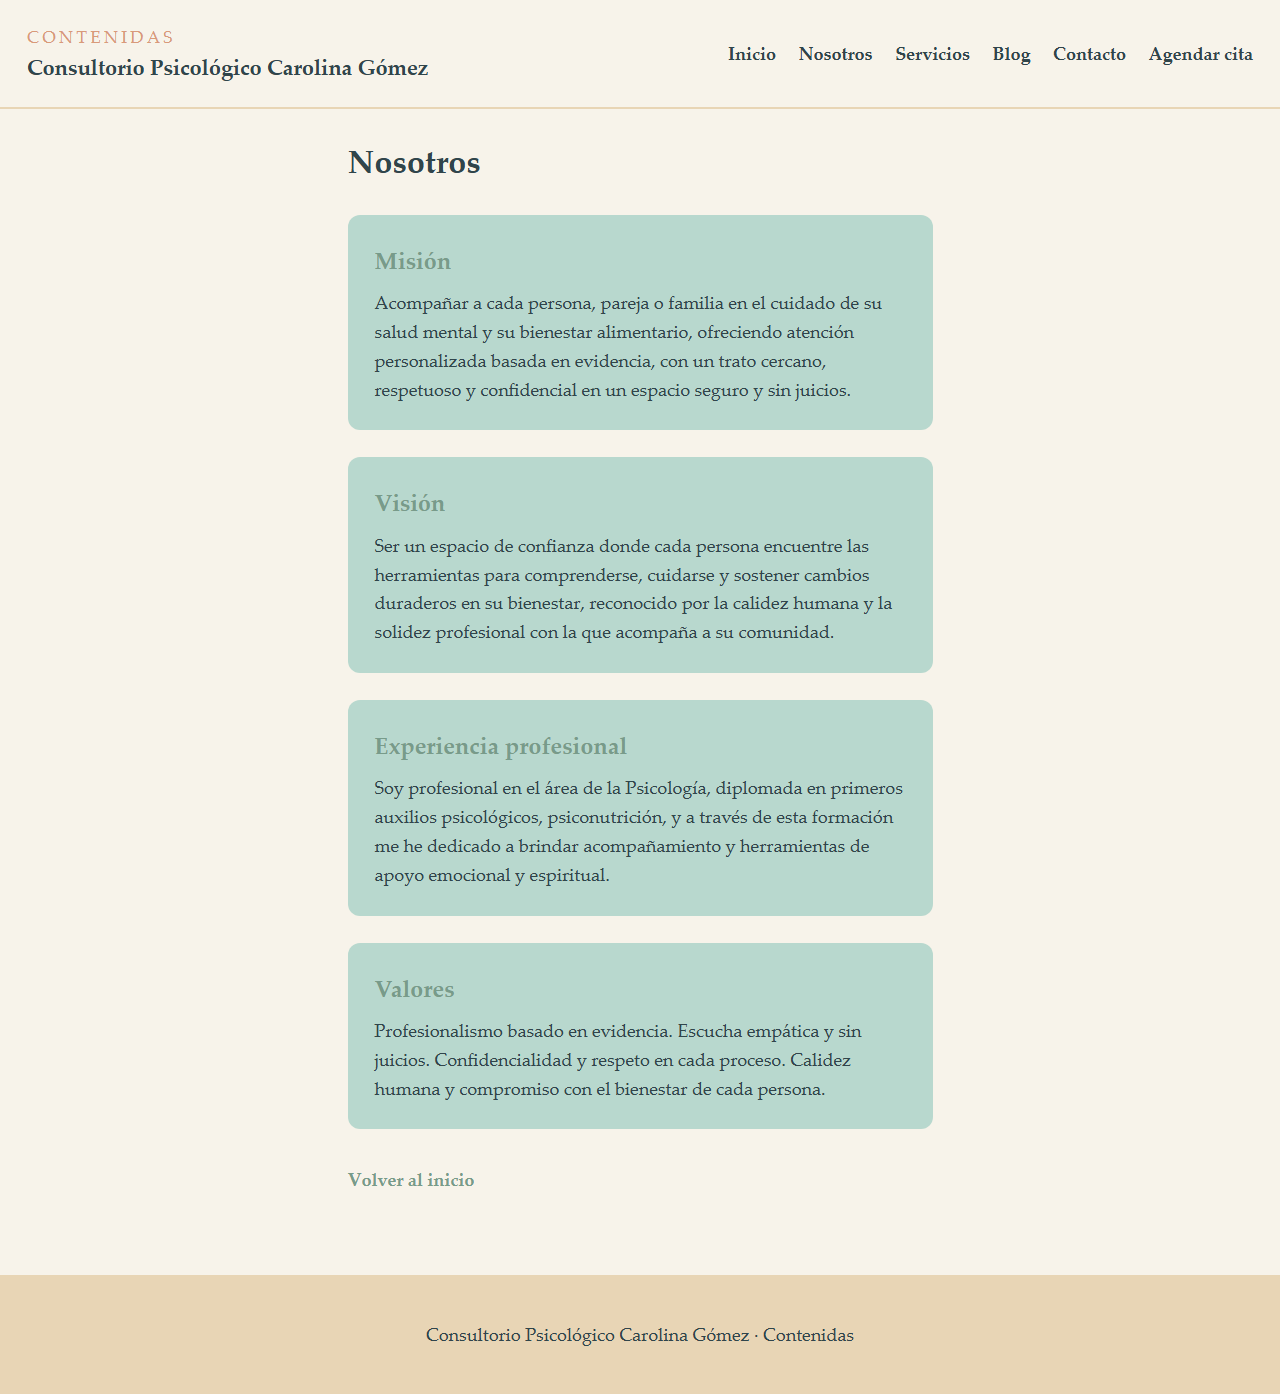
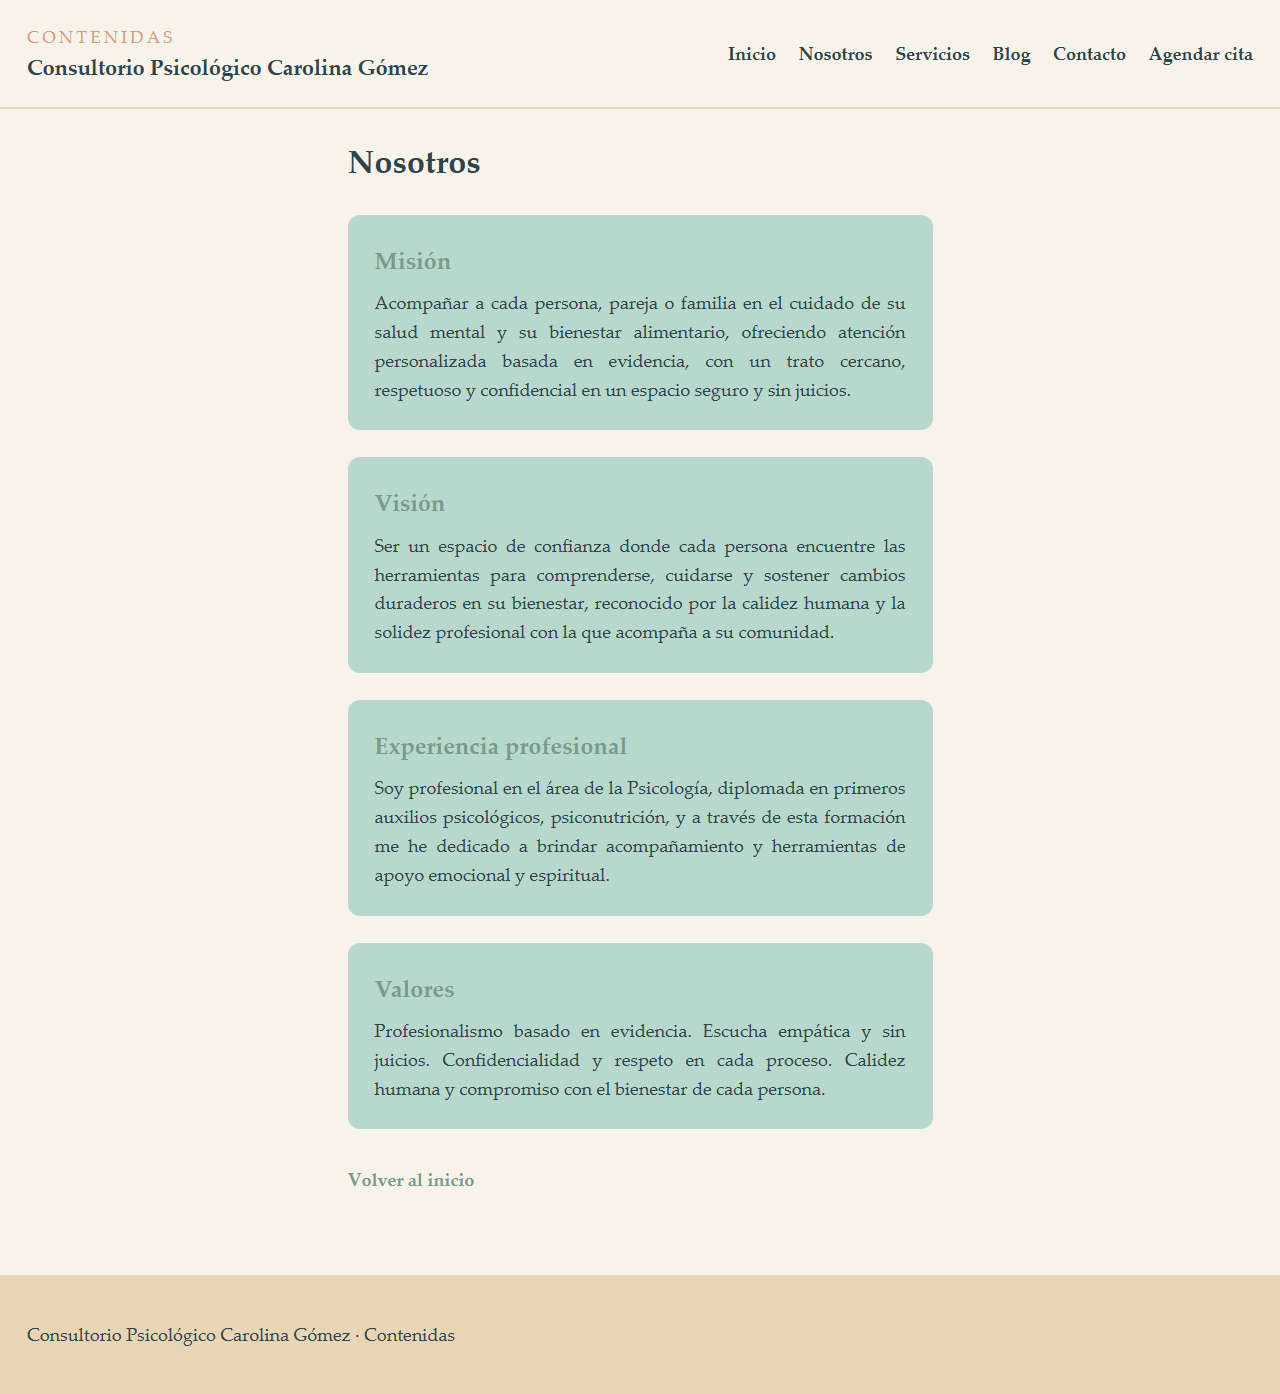
docs(evidence): regenerate HU-001/HU-002 captures after justified typography
Full-page captures rebuilt with exact scroll heights (1280x1268, 375x2215,
1280x1394, 375x1903) from a clean CDP profile. QA reports updated with DOM
and pixel-probe verification of justify + hyphens: none at both viewports.
DevTools captures kept after pixel check (identical line breaks). Suite 45
PASS, contract checks 28 PASS. Closes evidence refresh for HU-001/HU-002.

diff --git a/docs/evidencias/hu-001/qa-hu-001.md b/docs/evidencias/hu-001/qa-hu-001.md
@@ -3,36 +3,50 @@
 **HU:** HU-001
 **Rama:** `feature/hu-001`
 **Commits:** `2ebaa46` (docs), `85a0e9d` (feat), `3203047` (docs), `aa5379c` (evidencia),
-`4c1266a` (tipografía), `6b7dc3f` (evidencia regenerada), `434ef1e` (evidencia DevTools)
-**Fecha:** 2026-10-07 (actualizada tras el cambio tipográfico)
+`4c1266a` (tipografía), `6b7dc3f` (evidencia regenerada), `434ef1e` (evidencia DevTools),
+`8103b91` (justificación generalizada sin guiones)
+**Fecha:** 2026-10-07 (actualizada tras la justificación generalizada del sitio)
 
 ## Resumen
 
 | Verificación | Comando | Resultado |
 |---|---|---|
-| Suite automatizada | `python -m pytest -q` | **29 PASS / 0 FAIL** |
-| Contrato HTTP y semántica | script de verificación sobre `test_client()` | **27 PASS / 0 FAIL** |
+| Suite automatizada | `python -m pytest -q` | **45 PASS / 0 FAIL** (29 de HU-001 + 16 de HU-002) |
+| Contrato HTTP y semántica | script de verificación sobre `test_client()` | **28 PASS / 0 FAIL** |
 | Servidor de desarrollo | `GET http://127.0.0.1:5000/` | **200** |
 | Evidencia visual | `docs/evidencias/hu-001/*.png` | **4 archivos, PASS** |
 
 ## Cambio tipográfico verificado en esta iteración
 
-La portada adopta **Palatino** (`static/css/main.css`, `body { font-family: ... }`), el
-párrafo del hero queda **justificado** de forma acotada (solo `.hero__intro`) y la base
-tipográfica sube de **16 px a 18 px** con `html { font-size: 112.5% }`, según la
-decisión documentada en `docs/design-typography.md` y reflejada en la D10 de
-`specs/001_visualizar-pinicio/plan.md`.
+La portada adopta **Palatino** (`static/css/main.css`, `body { font-family: ... }`) y la
+base tipográfica sube de **16 px a 18 px** con `html { font-size: 112.5% }` (decisión
+documentada en `docs/design-typography.md`, D10 de `specs/001_visualizar-pinicio/plan.md`).
 
-Comprobaciones objetivas sobre `escritorio-1280.png` y `movil-375.png`:
+Desde `8103b91` la justificación se **generalizó a todo el sitio** con
+`text-align: justify` + `hyphens: none` (sin guiones ni cortes de palabras) en
+`.hero__intro`, `.service-card__summary`, `.values__line` y `.site-footer`
+(ambas reglas permanentes recogidas en `AGENTS.md`).
 
-- Justificación: los bordes derechos de las líneas completas del párrafo del hero son
-  619 / 613 / 618 / 619 / 613 px y la última línea corta termina en 168 px.
-- Cuerpo ampliado: el volumen de texto crece de forma medible respecto a la captura
-  anterior (p. ej. RF-6 en móvil pasa de 1344 a 1671 px de texto y el pie de 575 a
-  722), coherente con la escala 1.125×.
-- Título del hero equilibrado con `text-wrap: balance`: en escritorio la línea 1 mide
-  464 px y la línea 2 318 px, en lugar de una primera línea larga y «Gómez» solo.
-- `python -m pytest -q` → 29 PASS después del cambio.
+Verificación por CDP DOM (`Runtime.evaluate` + `Emulation.setDeviceMetricsOverride`,
+viewport exacto) sobre `/`:
+
+| Elemento | 1280 px | 375 px |
+|---|---|---|
+| `.hero__intro` | justify + `hyphens: none`, líneas 540·540·540·101 | justify + none, 7 líneas de 285 + 210 |
+| `.service-card__summary` | justify + none, 551·341 | justify + none, 288·288·288·81 |
+| `.values__line` | justify + none, 1120 (línea única) | justify + none, 285·285·285·285·230 |
+| `.site-footer p` | justify, 428 (línea única) | justify, 321·161 |
+| `scrollWidth` | 1280 (sin desbordamiento) | 375 (sin desbordamiento) |
+
+Verificación por muestreo de píxeles sobre `escritorio-1280.png` (bordes de línea):
+
+- Título del hero equilibrado con `text-wrap: balance`: la línea 1 mide 464 px
+  (x 83..547) y la línea 2 318 px (x 83..401).
+- Intro del hero: líneas completas terminan en x=620 / 619 / 620 y la última corta en
+  180 (justificación sin guiones visibles).
+- Tarjeta «Psicología Integral»: título en 56..238, línea 1 del resumen en 56..605
+  (borde derecho parejo) y línea 2 corta en 56..394.
+- `python -m pytest -q` → 45 PASS después del cambio (29 propios intactos).
 
 ## Cobertura de RF
 
@@ -55,29 +69,36 @@ Comprobaciones objetivas sobre `escritorio-1280.png` y `movil-375.png`:
 
 | Archivo | Dimensiones | Contenido comprobado | Resultado |
 |---|---|---|---|
-| `escritorio-1280.png` | 1280×1900 | cabecera (y=0-135) **sin botón «Menú»** (0 px salvia en la zona de nav), hero (y=136-597) con imagen (89 784 px fuera de fondo), servicios/tarjetas (y=598-881), botón (y=882-935), RF-6 (y=981-1067, 1660 px de texto) y pie RF-7 (y=1149-1267, 748 px de texto) | PASS |
-| `movil-375.png` | 375×2800 | cabecera con marca (y=0-131) y botón «Menú» (y=133-177), nav cerrado (0 px de texto en y=179-221), hero (y=222-1108), «Nuestros servicios» (y=1109-1219), tarjetas (y=1220-1422 e y=1446-1649), botón (y=1677-1730), RF-6 (y=1776-1994, 1671 px de texto) y pie RF-7 (y=2067-2214, 722 px de texto) | PASS |
-| `escritorio-1280-devtools.png` | 1028×563 | Toolbar real de DevTools «Dimensions: Responsive **1280 × 650** · Fit to window · No throttling» + regla + viewport **sin botón «Menú»** (`display: none` comprobado por DOM), hero con h1 equilibrado e intro justificada en Palatino y base 18 px | PASS |
+| `escritorio-1280.png` | 1280×1268 | cabecera (y=0-135) **sin botón «Menú»** (DOM: `display: none` ≥768 px), hero (y=136-597) con imagen, h1 equilibrado e intro justificada (bordes 620/619/620, última línea 180), servicios/tarjetas (y=598-881) con resumen justificado (línea 1 en x56..605), botón (y=882-935), RF-6 (y=981-1067) y pie RF-7 (y=1149-1267) con texto justificado | PASS |
+| `movil-375.png` | 375×2215 | cabecera con marca (y=0-131) y botón «Menú» (y=133-177; DOM: `display: block` con `.site-nav` oculto, nav cerrada), hero (y=222-1108), «Nuestros servicios» (y=1109-1219), tarjetas (y=1220-1422 e y=1446-1649), botón (y=1677-1730), RF-6 (y=1776-1994; 4 líneas a x45..328 + última corta) y pie RF-7 (y=2067-2214; línea 1 a x28..347), todo justificado y sin guiones; `scrollWidth`=375 | PASS |
+| `escritorio-1280-devtools.png` | 1028×563 | Toolbar real de DevTools «Dimensions: Responsive **1280 × 650** · Fit to window · No throttling» + regla + viewport **sin botón «Menú»** (`display: none` comprobado por DOM), hero con h1 equilibrado e intro justificada (muestreo: bordes 499/499/500, última línea 192) y mismos cortes de línea que la captura completa | PASS |
 | `movil-375-devtools.png` | 1028×563 | Toolbar real «Dimensions: Responsive **375 × 512**» + viewport con la marca, botón «Menú» y **nav desplegada** (`aria-expanded=true`, `is-open`), hero sage visible; Palatino y base 18 px | PASS |
 
-Las dos capturas completas se generan con Chrome headless **vía DevTools Protocol**
-(`Emulation.setDeviceMetricsOverride` + `Page.captureScreenshot`), por lo que el ancho
-renderizado es exactamente 1280 y 375 px. La presencia y posición de cada bloque se
-verificó por muestreo de color (bandas de fila) y conteo de píxeles de texto, no por
-inspección visual. El estado inicial del nav en móvil está comprobado además por código:
-`base.html` no incluye la clase `is-open` y `main.css` aplica `display: none` bajo
-`@media (max-width: 767px)`.
+Las dos capturas completas se regeneraron el 2026-10-07 tras `8103b91` con Chrome
+headless **vía DevTools Protocol** (`Emulation.setDeviceMetricsOverride` +
+`Page.captureScreenshot`, perfil limpio en el puerto 9445 para evitar CSS en caché), con
+las alturas exactas medidas por `scrollHeight` (1268 px a 1280 y 2215 px a 375, sin
+holgura inferior): los anchos renderizados son exactamente 1280 y 375 px y la emulación
+se fija en la misma sesión CDP que toma la captura. La presencia y posición de cada
+bloque se verificó por muestreo de píxeles (bandas de fila, bordes de línea y
+conteo) combinado con lectura DOM (`Runtime.evaluate`), no por inspección visual. El
+estado inicial del nav está comprobado por DOM en ambos viewports: botón «Menú»
+`display: none` en 1280 y `display: block` con `.site-nav { display: none }` en 375,
+coherente con `base.html` (sin `is-open`) y `@media (max-width: 767px)`.
 
-Las dos capturas `*-devtools.png` se regeneraron el 2026-10-07 desde una **ventana real
-de Chrome** (perfil de depuración, DevTools abierto y acoplado abajo, device toolbar
-activo) usando `PrintWindow`, recortando solo el área de página (x=8, y=87, 1028×563 px)
-para excluir la barra del navegador y los paneles de DevTools. Verificación: `btnDisplay:
-'none'` y `base: 18px`/`font: Palatino` leídos por DOM en 1280, y `aria-expanded: true`
-con clase `is-open` en 375; geometría por muestreo de píxeles (viewport 375×512 a zoom
-100 % centrado con margen de fondo a ambos lados).
+Las dos capturas `*-devtools.png` **no necesitaron regenerarse**: se verificaron por
+muestreo de píxeles que la intro del hero aparece justificada (bordes 499/499/500) con
+los mismos cortes de línea que la captura completa nueva (la pasada de `hyphens: auto`
+a `none` no alteró el render de la portada) y que el resto de su contenido (toolbar de
+DevTools, nav) no depende de la tipografía. Se conservan tal cual, tomadas el
+2026-10-07 desde una **ventana real de Chrome** (perfil de depuración, DevTools abierto
+y acoplado abajo, device toolbar activo) con `PrintWindow`, recortando solo el área de
+página (x=8, y=87, 1028×563 px). Verificación adicional: `btnDisplay: 'none'` y
+`base: 18px`/`font: Palatino` leídos por DOM en 1280, y `aria-expanded: true` con clase
+`is-open` en 375.
 
-Geometría comprobada en `movil-375.png`: el hero termina en x≈356 y el fondo de página
-ocupa x≥362 (padding de 24 px), es decir, sin desbordamiento horizontal a 375 px.
+Sin desbordamiento horizontal en móvil comprobado por DOM: `scrollWidth` = 375 px
+(igual que el viewport pedido) en `/` y `/nosotros`.
 
 ## Defectos encontrados
 
@@ -98,7 +119,8 @@ ocupa x≥362 (padding de 24 px), es decir, sin desbordamiento horizontal a 375 
 
 ## Veredicto
 
-**PASS** — los 29 tests y las 27 comprobaciones de contrato están en verde tras el
-cambio tipográfico, y la evidencia visual regenerada cubre la totalidad de los RF y los
-casos límite con anchos de render exactos. HU aceptada por el usuario el 2026-10-07:
-**HU-001 CERRADA**.
+**PASS** — la suite (45 tests: los 29 de HU-001 intactos) y las 28 comprobaciones de
+contrato están en verde tras la justificación generalizada sin guiones
+(`8103b91`), y la evidencia visual regenerada (alturas exactas 1268/2215) cubre la
+totalidad de los RF y los casos límite con anchos de render exactos. HU aceptada por el
+usuario el 2026-10-07: **HU-001 CERRADA**.

diff --git a/MEMORY.md b/MEMORY.md
@@ -5,59 +5,56 @@ aporte.
 
 ## Estado actual
 - Versión 1.0 - En desarrollo
-- **HU-001 (Spec 001) implementada y ACEPTADA** (2026-10-07): portada con identidad,
-  imagen representativa, resumen de servicios, frase de valores, marca secundaria
-  «Contenidas» y menú de 6 accesos. Rama `feature/hu-001`.
-- **HU-002 (Spec 002) implementada con evidencia PASS** (2026-10-07, `feature/hu-002`):
-  `/nosotros` con Misión/Visión/Experiencia/Valores según literales de la spec;
-  **PENDIENTE de aceptación**.
+- **HU-001 (Spec 001) ACEPTADA** (2026-10-07): portada completa, rama `feature/hu-001`,
+  cerrada en `ba23658`.
+- **HU-002 (Spec 002) implementada con evidencia PASS y PENDIENTE de aceptación**
+  (rama `feature/hu-002`; `c71c78c` spec+plan, `f782797` feat, `a686a58` plan,
+  `6ed88eb` evidencia, `8103b91` justificación generalizada, y commit de evidencia
+  regenerada posterior).
 - Tests: **45 PASS / 0 FAIL** (`python -m pytest -q`), Python 3.14.8 + Flask 3.1.3 +
-  pytest 9.1.1 (29 de HU-001 + 16 de HU-002).
-- Specs y plan en `specs/001_visualizar-pinicio/`.
-- Commits: remoto `origin` (github.com/jazluz-colven/consultorio-psicologico);
-  HU-001 cerrada en `ba23658`; HU-002: `c71c78c` (spec+plan), `f782797` (feat),
-  `a686a58` (plan) y cierre de evidencia en el commit correspondiente.
-- **Tipografía vigente y commitada**: portada en Palatino, párrafo del hero justificado
-  (solo `.hero__intro`), **cuerpo base 18 px** (`html { font-size: 112.5% }`, escala
-  1.125× en todos los `rem`; cortes `px` intactos) y h1 del hero equilibrado con
-  `text-wrap: balance`. Decisiones en `docs/design-typography.md`, D10 del plan.
-- **Evidencia DevTools regenerada y commiteada** (2026-10-07, `434ef1e`):
-  `escritorio-1280-devtools.png` y `movil-375-devtools.png` (1028×563) muestran la
-  tipografía actual, toolbar real «Responsive 1280 × 650» / «375 × 512» y menú desplegado.
+  pytest 9.1.1 (29 de HU-001 + 16 de HU-002). Contrato HU-001: 28 PASS (script
+  actualizado tras implementarse `/nosotros`).
+- **Tipografía vigente**: Palatino, cuerpo base 18 px, h1 con `text-wrap: balance` y
+  **justificación generalizada a todo el sitio** (`text-align: justify` +
+  `hyphens: none`, sin guiones): `.hero__intro`, `.service-card__summary`,
+  `.values__line`, `.site-footer`, `.about__text`. Decisiones en
+  `docs/design-typography.md` (D10 del plan); reglas permanentes en `AGENTS.md`.
+- **Evidencia visual regenerada** (2026-10-07): `hu-001/escritorio-1280.png` 1280×1268,
+  `hu-001/movil-375.png` 375×2215, `hu-002/*.png` 1280×1394 y 375×1903 (alturas exactas,
+  sin holgura); los `*-devtools.png` se conservan (verificados por píxeles).
+- Servidor de revisión en marcha: `python app.py` → http://127.0.0.1:5000/.
 
 ## Decisiones (y por qué)
-- **Sin SQLite en HU-001**: la portada no escribe datos; el contenido vive en
-  `consultorio/content/` (constitución #1, nada por conveniencia). La capa
-  `persistence/` se crea con la primera HU que use BD.
-- **Spec 001 con textos literales contractuales** (Q8): cambiar un copy obliga a PR de
-  spec primero; `tests/expected_content.py` es su espejo.
-- **Rutas placeholder** (Q1) ahora solo `/servicios`, `/articulos`, `/contacto`,
-  `/citas` responden «Sección en construcción»; `/nosotros` fue sustituida por HU-002
-  (`PLACEHOLDER_SECTIONS` ajustado, D11).
+- **Sin SQLite hasta que una HU lo pida**: contenido en `consultorio/content/`
+  (constitución #1); `persistence/` se crea con la primera HU con BD.
+- **Spec 001/002 con textos literales contractuales** (Q8): cambiar un copy obliga a PR
+  de spec primero; `tests/expected_content.py` es su espejo.
+- **Rutas placeholder** (Q1): ahora solo `/servicios`, `/articulos`, `/contacto`,
+  `/citas` responden «Sección en construcción»; `/nosotros` la sustituyó (D11).
 - **Sin botón CTA en el hero**; «Agendar cita» vive solo en el menú.
-- **Todos los párrafos justificados** (regla permanente del usuario, 2026-10-07;
-  en `docs/design-typography.md` y `AGENTS.md`): `text-align: justify` + `hyphens: none`
-  (sin guiones ni cortes de palabras), ajustados al cajón. Aplicado en `/nosotros` y
-  en la portada (`.hero__intro`, tarjetas, frase de valores, pie).
-- Colores de la ilustración NO se usan como colores de UI: paleta Serenidad Natural
-  intacta (solo los 6 hex aprobados).
+- **Todos los párrafos justificados y sin guiones** (regla permanente del usuario,
+  2026-10-07): `justify` + `hyphens: none`, ajustados al cajón.
+- Colores de la ilustración NO se usan como UI: paleta Serenidad Natural intacta
+  (solo los 6 hex aprobados).
 
 ## Aprendizajes y errores a evitar
 - `pip` está **bloqueado por AppLocker**: usar `python -m pip install ...`.
-- El archivo de imagen llegó como `hero-contenidas.png.png`; comprobar nombres dobles.
-- El PNG de la portada mide 720×713 (usado en `width`/`height` del `<img>`).
-- Si se sube una imagen con fondo blanco, se verá una caja sobre `#F7F3EA`: pedir fondo
-  transparente.
-- **Chrome 154 headless no renderiza a menos de 500 px**: `--window-size=375` recorta la
-  imagen de 500 px y la maqueta parece desbordada (no lo está). Para capturas exactas
-  usar DevTools Protocol (`Emulation.setDeviceMetricsOverride`); script de apoyo en
-  `C:\Users\Jaz\AppData\Local\Temp\opencode\capture_cdp.ps1` (miden `scrollHeight` con
-  `Runtime.evaluate` antes de capturar).
-- **Jinja + claves de dict con nombre de método**: `{{ d.values }}` resuelve al método
-  `dict.values`, no a la clave; usar `{{ d["values"] }}` (bug visto en HU-002).
-- **Servidor para revisión**: tras toda tarea/modificación visible, dejar
-  `python app.py` en marcha y comunicar la URL (regla añadida a `AGENTS.md`).
+- Imagen de portada: 720×713; llegó `hero-contenidas.png.png` (nombres dobles); fondo
+  blanco se ve como caja sobre `#F7F3EA`.
+- **Chrome 154 headless no renderiza a menos de 500 px**: para capturas exactas usar
+  DevTools Protocol (`Emulation.setDeviceMetricsOverride`), midiendo `scrollHeight`
+  antes; scripts en `C:\Users\Jaz\AppData\Local\Temp\opencode\` (`capture_cdp.ps1`,
+  `measure_cdp.ps1`, `eval_cdp.ps1`, `probe_lines.ps1`, `imgtool.ps1`).
+- **La emulación CDP es por sesión**: al cerrar el WebSocket se limpia; todo script
+  (capture, measure, eval) debe fijar su propio viewport, y conviene perfil de Chrome
+  nuevo para no servir CSS de caché (incidente visto en `/nosotros`).
+- **Jinja + claves de dict con nombre de método**: `{{ d.values }}` resuelve a
+  `dict.values`; usar `{{ d["values"] }}` (bug HU-002).
+- El lector de imágenes del asistente puede adjuntar ficheros equivocados/caché:
+  verificar siempre por medidas programáticas (DOM + muestreo de píxeles), no a ojo.
+- **Servidor para revisión**: tras toda tarea visible, dejar `python app.py` en marcha
+  y comunicar la URL (regla en `AGENTS.md`).
 
 ## Próximos pasos
-- **PENDIENTE**: aceptación de HU-002 (checkbox en `docs/evidencias/hu-002/qa-hu-002.md`);
-  evidencia y push ya hechos. Tras aceptar, valorar HU-003 (Servicios).
+- **PENDIENTE**: aceptación de HU-002 (checkbox en `docs/evidencias/hu-002/qa-hu-002.md`).
+  Tras aceptar, valorar HU-003 (Servicios).

diff --git a/docs/evidencias/hu-002/qa-hu-002.md b/docs/evidencias/hu-002/qa-hu-002.md
@@ -2,8 +2,9 @@
 
 **HU:** HU-002
 **Rama:** `feature/hu-002`
-**Commits:** `c71c78c` (docs: spec + plan), `f782797` (feat), `a686a58` (plan: estado)
-**Fecha:** 2026-10-07
+**Commits:** `c71c78c` (docs: spec + plan), `f782797` (feat), `a686a58` (plan: estado),
+`6ed88eb` (evidencia), `8103b91` (justificación generalizada sin guiones)
+**Fecha:** 2026-10-07 (actualizada tras la regeneración de capturas)
 
 ## Resumen
 
@@ -36,14 +37,24 @@ omitida. Ejecución única: `45 passed in 0.48s`.
 
 | Archivo | Dimensiones | Contenido comprobado | Resultado |
 |---|---|---|---|
-| `escritorio-1280.png` | 1280×1394 | cabecera sin botón «Menú» y nav de 6 accesos; `<h1>Nosotros</h1>`; 4 bloques salvia con títulos «Misión/Visión/Experiencia profesional/Valores» y sus literales completos; «Volver al inicio»; pie con marca; columna centrada a 65ch; Palatino 18 px; solo colores de la paleta | PASS |
-| `movil-375.png` | 375×1903 | marca + botón «Menú» salvia; los 4 bloques apilados con literales completos; «Volver al inicio» y pie visibles; sin desbordamiento horizontal (contenido dentro de 375 px) | PASS |
+| `escritorio-1280.png` | 1280×1394 | cabecera sin botón «Menú» y nav de 6 accesos; `<h1>Nosotros</h1>`; 4 bloques salvia con títulos «Misión/Visión/Experiencia profesional/Valores» y sus literales completos **justificados y sin guiones** (bordes de línea en x375..904); «Volver al inicio» (y=1328-1340); pie con marca; columna centrada a 65ch; Palatino 18 px; solo colores de la paleta | PASS |
+| `movil-375.png` | 375×1903 | marca + botón «Menú» salvia (DOM: `display: block` con `.site-nav` oculto); los 4 bloques apilados con literales completos **justificados y sin guiones** (DOM: `hyphens: none` en los 4); «Volver al inicio» y pie visibles; `scrollWidth` = 375 (sin desbordamiento horizontal) | PASS |
+
+**Verificación tras `8103b91`** (CDP `Runtime.evaluate` con viewport exacto):
+
+| Viewport | Resultado |
+|---|---|
+| 1280×1394 | los 4 `.about__text` con `text-align: justify` + `hyphens: none`; líneas 531·531·531·477 / 531·531·531·460 / 531·531·531·235 / 531·531·451 (las completas = ancho del bloque); `lang=es`; `scrollWidth`=1280 |
+| 375×1903 | los 4 `.about__text` con justify + none; líneas 285×6·269 / 285×7·219 / 285×7·80 / 285×5·109; `scrollWidth`=375; `form`/`input` = 0; «Volver al inicio» presente |
 
 **Método**: Chrome 154 headless vía DevTools Protocol
 (`Emulation.setDeviceMetricsOverride` + `Page.captureScreenshot`, script
-`capture_cdp.ps1`, puerto 9444). La altura de documento se midió con
-`Runtime.evaluate` (`scrollHeight` 1394 px a 1280 y 1903 px a 375) para capturar la
-página completa sin recortes ni holguras. Ambas capturas revisadas visualmente.
+`capture_cdp.ps1`, perfil limpio en el puerto 9445, emulación fijada en la misma sesión
+que captura). Las alturas se midieron con `Runtime.evaluate`
+(`scrollHeight` 1394 px a 1280 y 1903 px a 375) y las capturas se regeneraron el
+2026-10-07 con esas alturas exactas. Además, muestreo de píxeles sobre la captura de
+escritorio confirma los bordes de línea justificados (x375..904 en las líneas
+completas de los 4 bloques y última línea corta de cada uno).
 
 ## Defectos encontrados
 
@@ -59,12 +70,14 @@ página completa sin recortes ni holguras. Ambas capturas revisadas visualmente.
 - [x] Spec 002 con literales y duda abierta cerrada (`c71c78c`).
 - [x] `plan.md` aprobado y actualizado (`c71c78c`, `a686a58`).
 - [x] Implementación y tests en verde (`f782797`; 45 PASS).
-- [x] Evidencia QA + capturas escritorio/móvil.
-- [ ] Commit/Push de esta evidencia.
+- [x] Evidencia QA + capturas escritorio/móvil (`6ed88eb`).
+- [x] Commit/Push de la evidencia (`6ed88eb`).
+- [x] Capturas y QA regenerados tras la justificación generalizada (`8103b91`).
 - [ ] Aceptación de la HU.
 
 ## Veredicto
 
 **PASS** — 45 tests en verde (los 29 de HU-001 intactos como regresión), cobertura
 completa de RF-1..RF-5, RNF-1 y ambos casos límite, y evidencia visual escritorio/móvil
-verificada. Quedan como trámite el commit de esta evidencia y la aceptación de la HU.
+regenerada y verificada por DOM + muestreo de píxeles tras la justificación
+generalizada. Único trámite pendiente: la aceptación de la HU.
